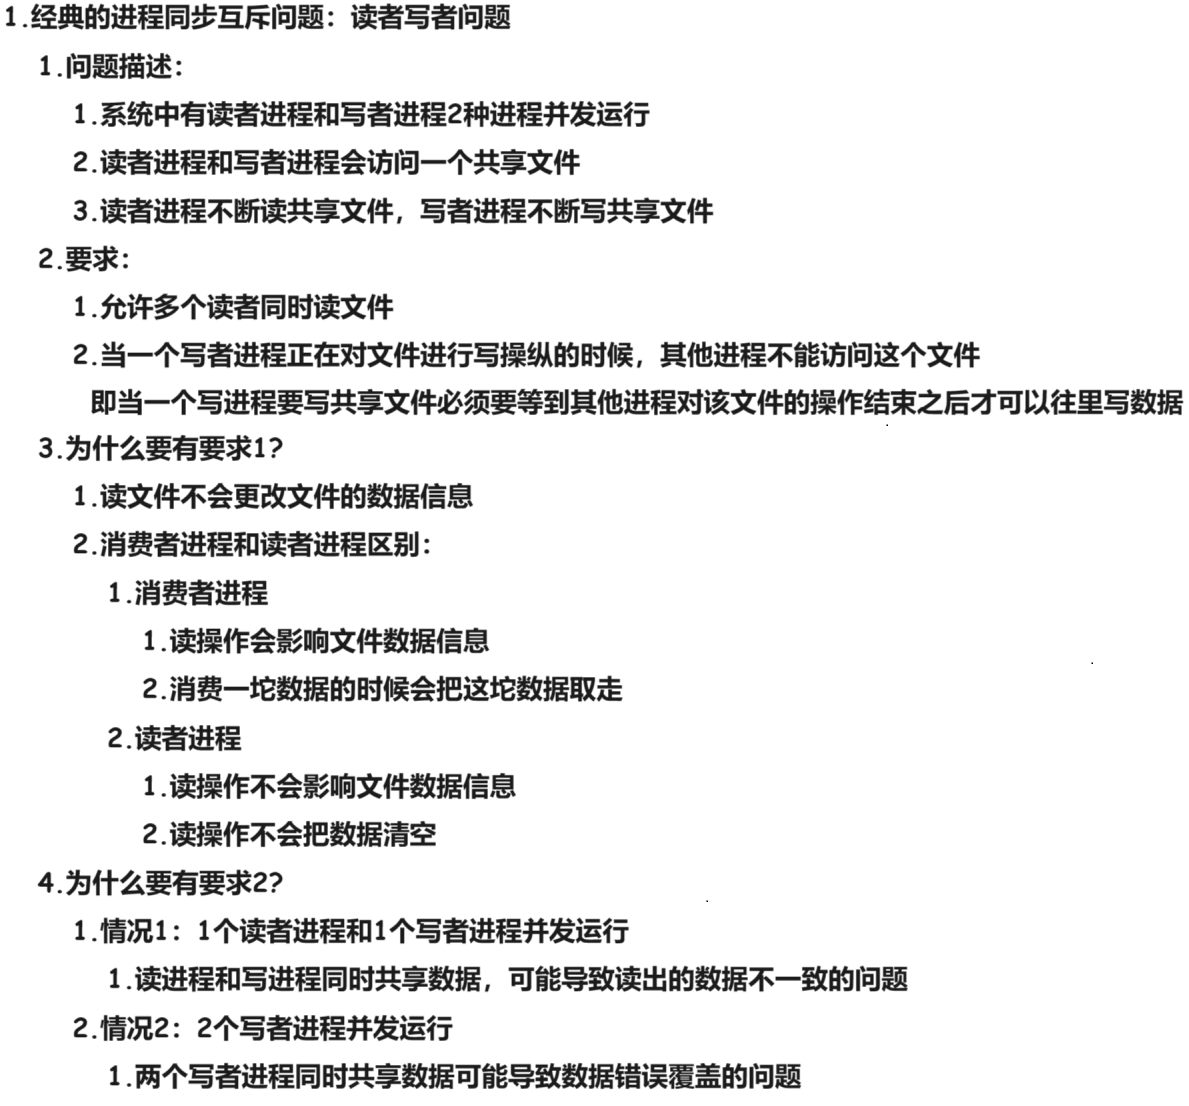
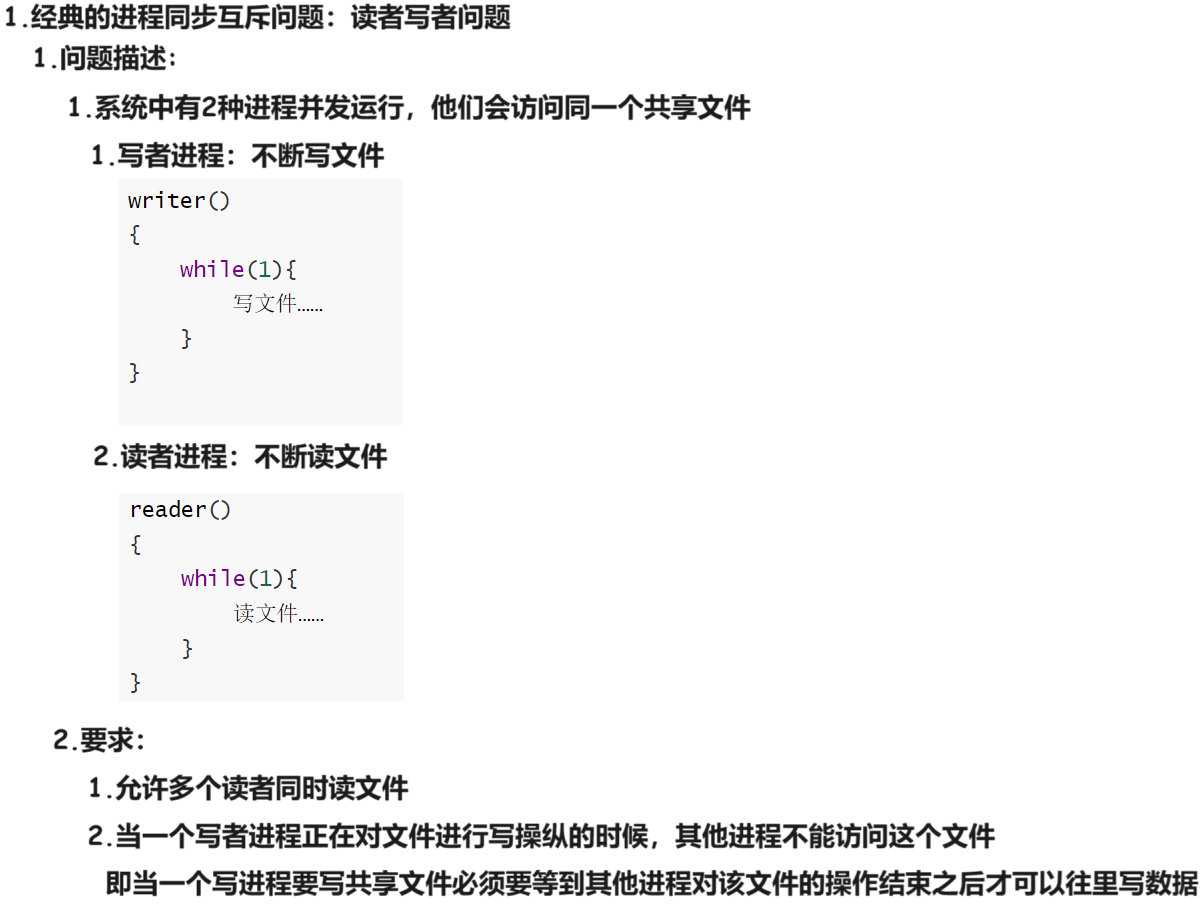
231215

Changed region(s): [[0.0, 0.0, 0.9958, 0.989]]

diff --git a/04 每日一题/03 操作系统知识点/01 读写者问题 231207/01 Doc.md b/04 每日一题/03 操作系统知识点/01 读写者问题 231207/01 Doc.md
@@ -2,6 +2,12 @@
 
 
 
+# 背诵
+
+<img src="https://cvp.oss-cn-shanghai.aliyuncs.com/picgo/202312150927307.png" alt="image-20231215092726166" style="zoom:50%;" />
+
+
+
 # 01
 
 ![image-20231213224056749](https://cvp.oss-cn-shanghai.aliyuncs.com/picgo/202312132240814.png)
